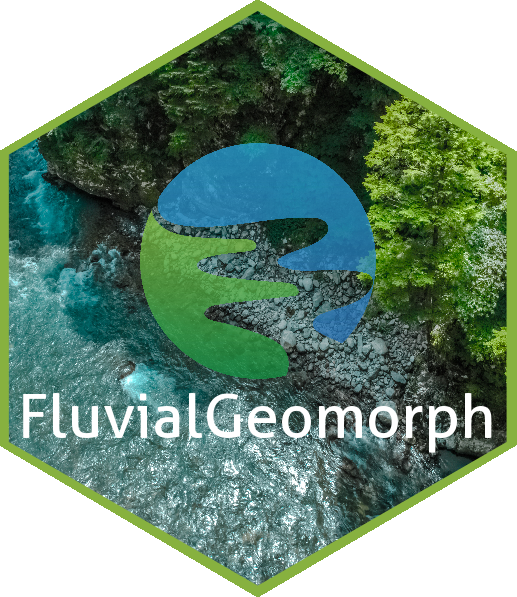
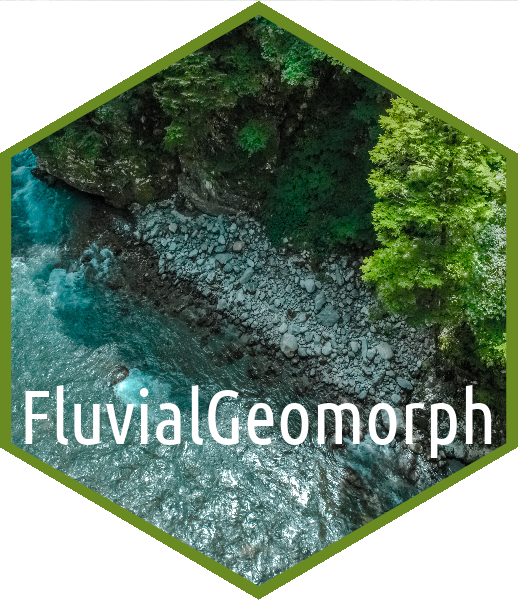
updated readme and news

diff --git a/Readme.md b/Readme.md
@@ -1,6 +1,5 @@
-<img src="docs/images/FG-hex.png" width=250 align="right" />
-
 # FluvialGeomorph ArcGIS toolbox
+<img src="docs/images/FG-hex.png" width=250 align="right" />
 The FluvialGeomorph ArcGIS toolbox provides a set of tools for extracting river channel dimensions from high resolution terrain data.  
 
 ## Project Status
@@ -14,7 +13,9 @@ The FluvialGeomorph ArcGIS toolbox provides a set of tools for extracting river 
 
 <img src="docs/images/python_r_toolbox.png" width=125 align="left"  />
 
-The FluvialGeomorph ArcGIS toolbox is a Python/R toolbox used to rapidly assess stream condition and health using remotely sensed terrain data (LiDAR) at fine scale and for large spatial extents. This toolbox was initially inspired by the approach and techniques of the [River Bathymetry Toolkit, RBT](https://essa.com/explore-essa/tools/river-bathymetry-toolkit-rbt/#1512261459195-77c49866-a2eb) but expanded upon their effort adding additional analysis tools and reports. This project is open source to help ensure that these fluvial geomorphology tools remain available for the widest use, maintenance, and adaptation. 
+The FluvialGeomorph ArcGIS toolbox is a Python/R toolbox used to rapidly assess stream condition and health using remotely sensed terrain data (LiDAR) at fine scale and for large spatial extents. This toolbox was initially inspired by the approach and techniques of the [River Bathymetry Toolkit, RBT](https://essa.com/explore-essa/tools/river-bathymetry-toolkit-rbt/#1512261459195-77c49866-a2eb) but expanded upon their effort by adding additional analysis tools and reports. This project is open source to help ensure that these fluvial geomorphology tools remain available for the widest use, maintenance, and adaptation. 
+
+***  
 
 <img src="docs/images/USACE_200.png" width=125 align="right" />
 
@@ -27,23 +28,31 @@ Funding for development and maintenance of FluvialGeomorph has been provided by 
 * [Flood Risk Management Program (FRM)](https://www.iwr.usace.army.mil/Missions/Flood-Risk-Management/Flood-Risk-Management-Program/)
 * [Engineering With Nature (EWN)](https://ewn.el.erdc.dren.mil/)
 
-<img src="docs/images/EWN_200.png" height=75 align="right" />
-<img src="docs/images/SilverJackets_200.png" height=75 align="right" />
-<img src="docs/images/FRMP_200.png" height=75 align="right" />
-<img src="docs/images/MRG&P_300.png" height=75 align="right" />
-<img src="docs/images/RSM_200.png" height=75 align="right" />
-<img src="docs/images/EMRRP_logo_200.png" height=75 align="right" />
+<img src="docs/images/EMRRP_logo_200.png" height=75/>
+<img src="docs/images/RSM_200.png" height=75/>
+<img src="docs/images/MRG&P_300.png" height=75/>
+<img src="docs/images/FRMP_200.png" height=75/>
+<img src="docs/images/SilverJackets_200.png" height=75/>
+<img src="docs/images/EWN_200.png" height=75/>
 
-## Latest Updates
-Check out the [NEWS](NEWS.md) for details on the latest updates. 
+***  
 
-## Authors
+## Latest Updates   
+Check out the [NEWS](NEWS.md) for details on the latest updates.  
+
+***  
+
+## Authors  
 * [Michael Dougherty](mailto:Michael.P.Dougherty@usace.army.mil), Geographer, Rock Island District, U.S. Army Corps of Engineers <div itemscope itemtype="https://schema.org/Person"><a itemprop="sameAs" content="https://orcid.org/0000-0002-1465-5927" href="https://orcid.org/0000-0002-1465-5927" target="orcid.widget" rel="me noopener noreferrer" style="vertical-align:top;"><img src="https://orcid.org/sites/default/files/images/orcid_16x16.png" style="width:1em;margin-right:.5em;" alt="ORCID iD icon">https://orcid.org/0000-0002-1465-5927</a></div>
 * [Christopher Haring](mailto:Christopher.P.Haring@usace.army.mil), Fluvial Geomorphologist/Research Physical Scientist, Coastal Hydraulics Laboratory, U.S. Army Corps of Engineers
 * [Charles Theiling](mailto:Charles.H.Theiling@usace.army.mil), Ecologist, Ecological Laboratory, U.S. Army Corps of Engineers
 
+***  
+
 ## Install
 To install the FluvialGeomorph ArcGIS toolbox, click the [latest release](https://github.com/FluvialGeomorph/FluvialGeomorph-toolbox/releases/latest) above, and download the `.zip` archive. Unzip this archive into a working folder and open the FluvialGeomorph ArcGIS toolbox in ArcMap or ArcGIS Pro. `R` must be installed for many of the tools in this toolbox to work. Please see the [NEWS](NEWS.md) for the software compatibility matrix and release notes. See the [User Manual](https://usermanual.fluvialgeomorph.org) for more details on getting started. 
+
+***  
 
 ## Getting Started
 Use the following guides to learn how to use the FluvialGeomorph ArcGIS toolbox. 
@@ -51,10 +60,13 @@ Use the following guides to learn how to use the FluvialGeomorph ArcGIS toolbox.
 * User Manual: [https://usermanual.fluvialgeomorph.org](https://usermanual.fluvialgeomorph.org)
 * Tech Manual: [https://techmanual.fluvialgeomorph.org](https://techmanual.fluvialgeomorph.org)
 
+***  
+
 ## Bug Reports
 If you find any bugs while using the FluvialGeomorph ArcGIS toolbox, please open an [issue](https://github.com/FluvialGeomorph/FluvialGeomorph/issues) in this repository. 
 
+***  
+
 ### Credits
-* [hex created using the `hexSticker` package](https://github.com/GuangchuangYu/hexSticker)
-* [hex logo from vecteezy.com](https://www.vecteezy.com/free-vector/natural)
-* [hex oblique aerial photo from pexels.com](https://www.pexels.com/@donaldtong94)
+* [hex logo created using the `hexSticker` R package](https://github.com/GuangchuangYu/hexSticker)
+* [hex logo oblique aerial photo from pexels.com](https://www.pexels.com/@donaldtong94)

diff --git a/NEWS.md b/NEWS.md
@@ -6,6 +6,17 @@
 # Bug fixes
 * The install script now creates the ceramic cache directory. If this directory doesn't previously exist, tools calling ceramic would fail when the interactive prompt wasn't responded to. On certian computers, this bug prevented all reports from running since a map calling ceramic is at the beginning of each report. 
 
+# Compatability Matrix
+This table describes the latest versions the software has been tested with. 
+
+Software        |Tested    |Not Tested
+---             |---       |---          
+ArcGIS Pro      |2.6.1     |2.7+          
+ArcMap          |10.7.1    |10.8+         
+R               |4.0.3     |4.0.4          
+R-bridge        |1.0.1.244 | -   
+FluvialGeomorph |0.1.42    | -  
+
 
 # FluvialGeomorph v0.1.41 (Release date: 2020-12-14)
 
